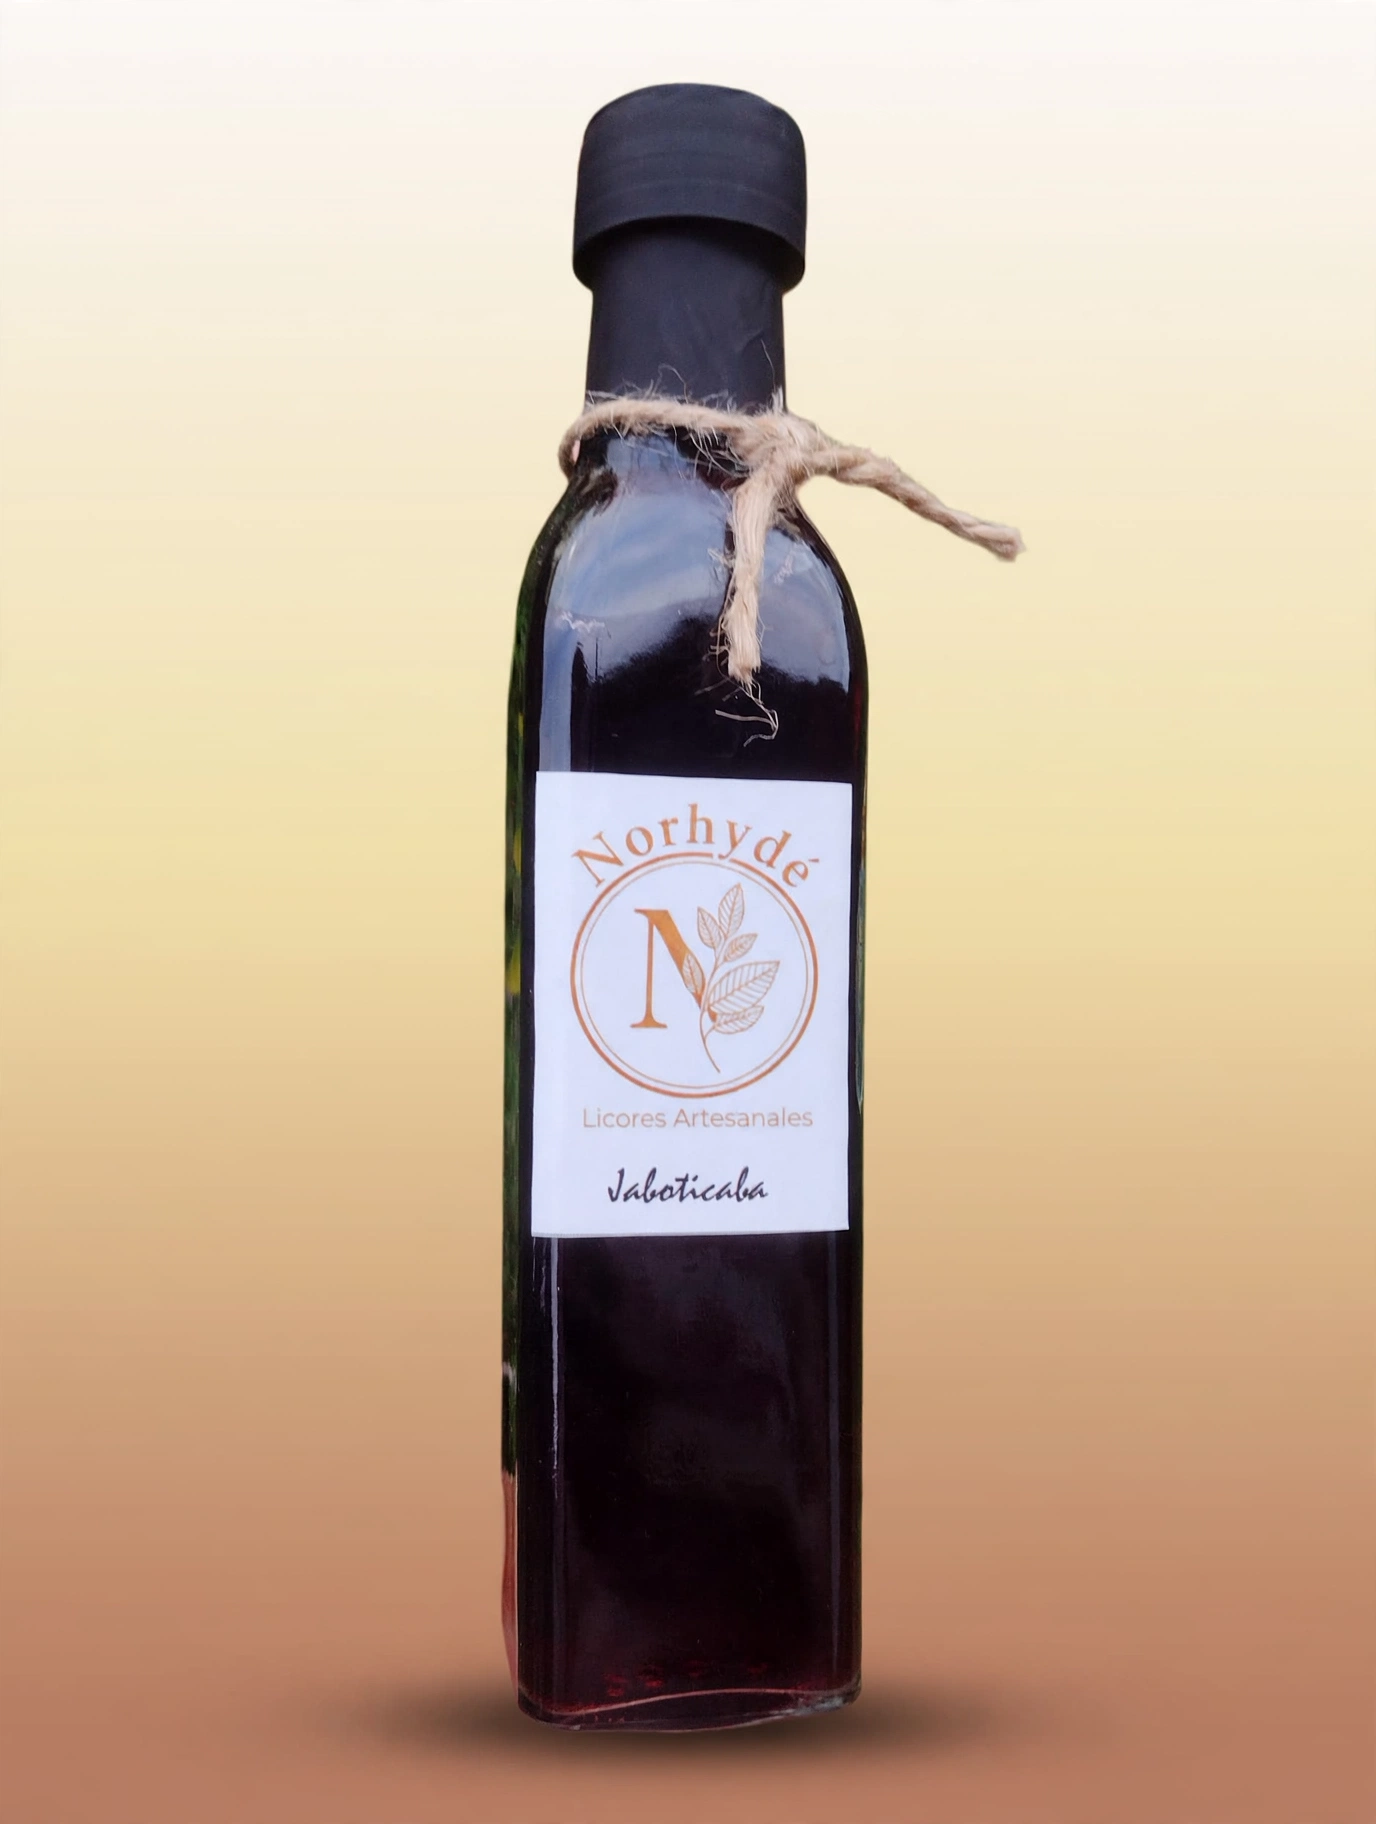
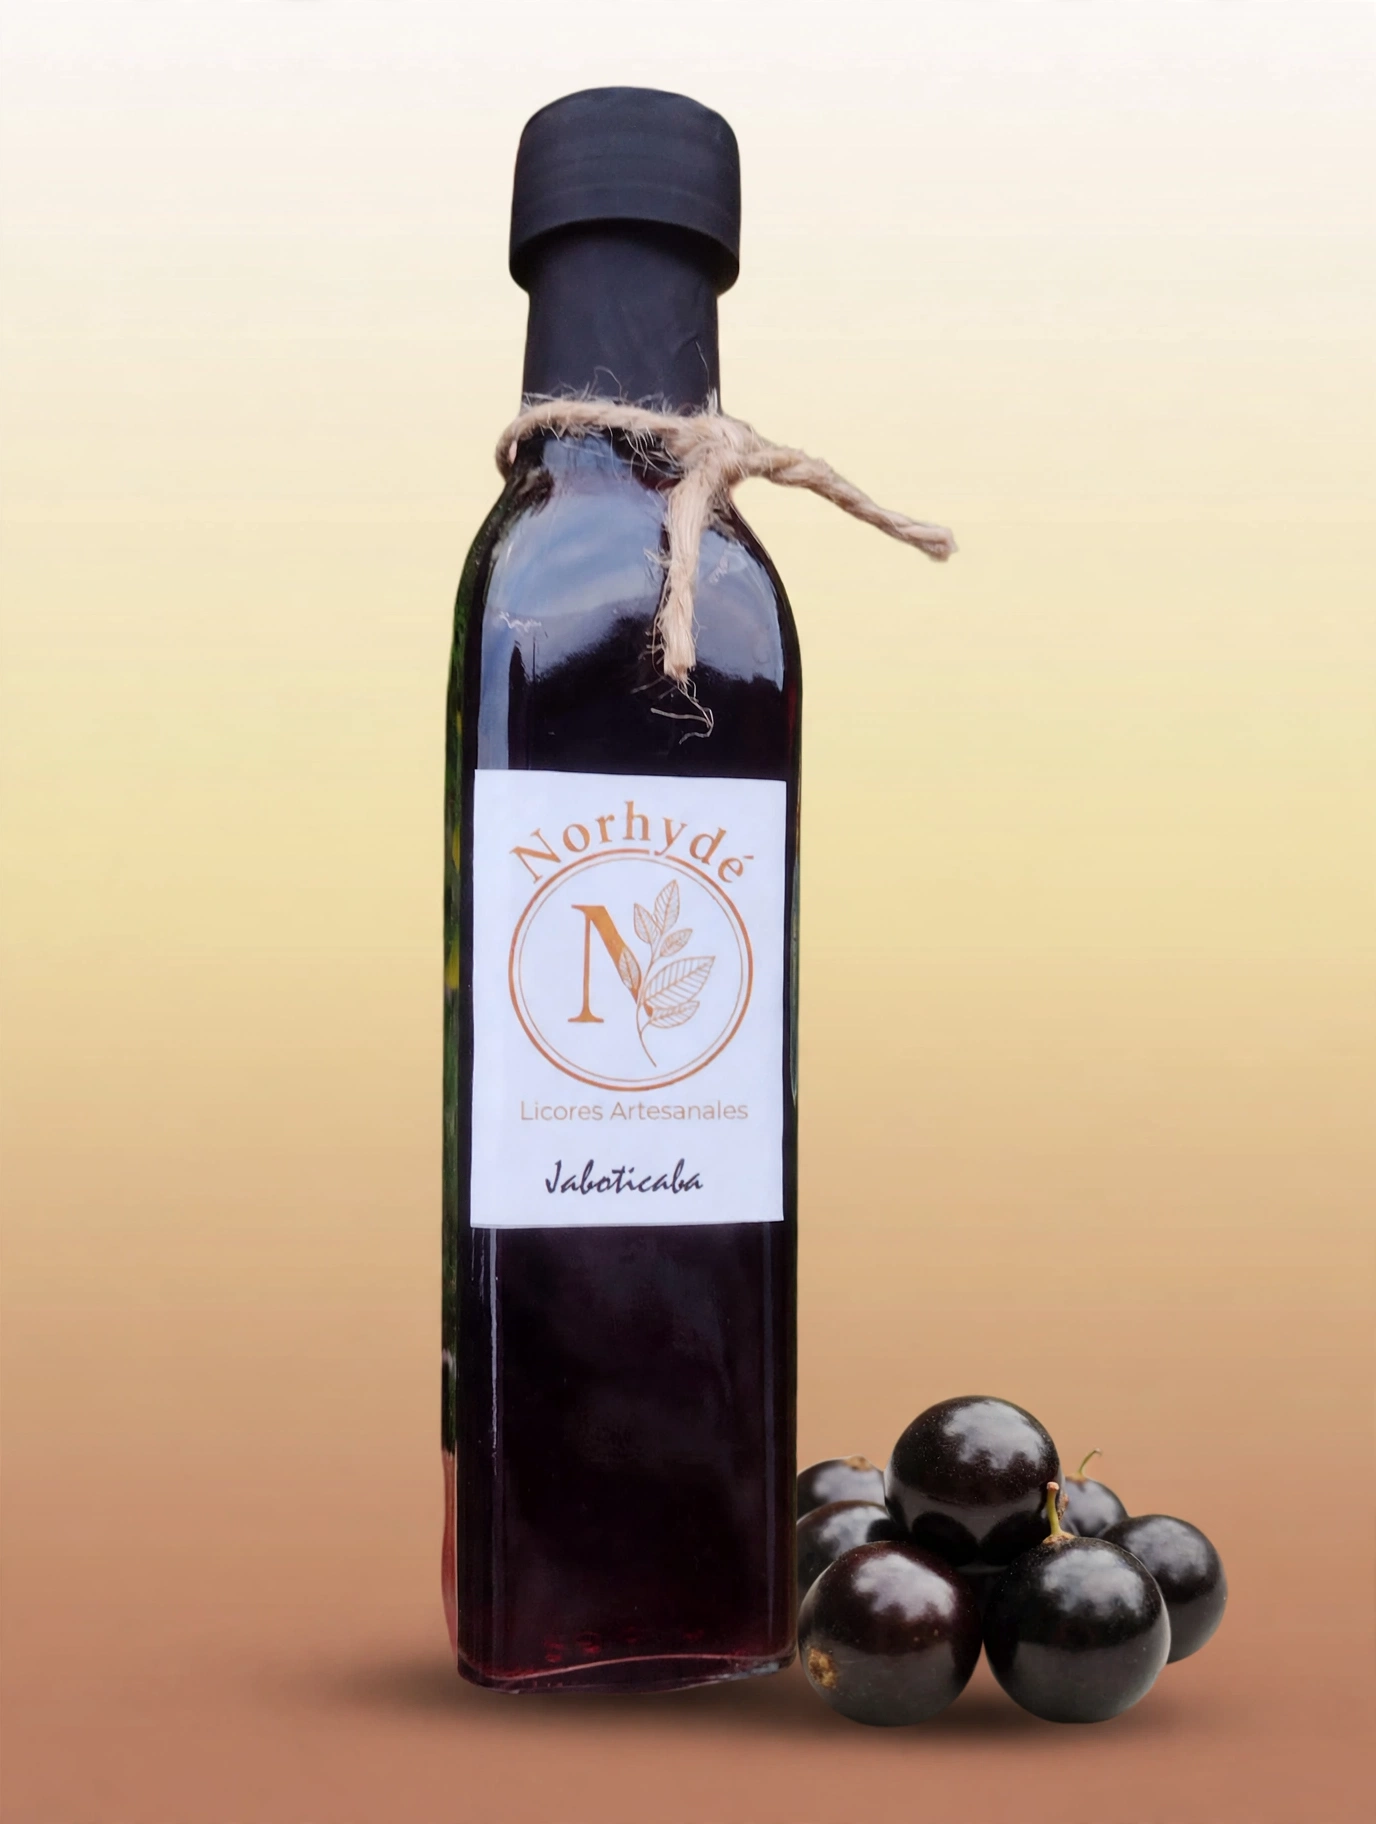
Actualizar fotos del catálogo y sumar Carambola

Changed region(s): [[0.25, 0.0312, 0.9062, 1.0]]

diff --git a/src/data/catalog.ts b/src/data/catalog.ts
@@ -95,7 +95,7 @@ export const PRODUCTS: Product[] = [
     servingSuggestion: 'Servir bien frío solo, con un cubo de hielo grande o en copas de sobremesa.',
     images: {
       botella: '/assets/botellas/jaboticaba.jpg',
-      botellita: null,
+      botellita: '/assets/botellitas/jaboticaba.jpg',
     },
     defaultFormat: 'botella',
   },
@@ -109,7 +109,7 @@ export const PRODUCTS: Product[] = [
     servingSuggestion: 'Ideal como aperitivo fresco con hielo y soda, o frío después de cenar.',
     images: {
       botella: '/assets/botellas/pitanga.jpg',
-      botellita: null,
+      botellita: '/assets/botellitas/pitanga.jpg',
     },
     defaultFormat: 'botella',
   },
@@ -170,16 +170,16 @@ export const PRODUCTS: Product[] = [
     defaultFormat: 'botella',
   },
   {
-    id: 'guabirova',
-    name: 'Guabirova',
+    id: 'guaviroba',
+    name: 'Guaviroba',
     lineId: 'frutos-del-monte',
     shortNote: 'Aroma cítrico-resinoso del monte, fresco y muy expresivo.',
     description:
-      'Elaborado con guabirova recolectada artesanalmente. Conserva el perfume característico de este fruto nativo, con un equilibrio vibrante entre dulzor y frescor.',
+      'Elaborado con guaviroba recolectada artesanalmente. Conserva el perfume característico de este fruto nativo, con un equilibrio vibrante entre dulzor y frescor.',
     servingSuggestion: 'Servir frío en copa de licor o con abundante hielo y piel de limón.',
     images: {
-      botella: '/assets/botellas/guabirova.jpg',
-      botellita: '/assets/botellitas/guabirova.jpg',
+      botella: '/assets/botellas/guaviroba.jpg',
+      botellita: '/assets/botellitas/guaviroba.jpg',
     },
     defaultFormat: 'botella',
   },
@@ -224,10 +224,10 @@ export const PRODUCTS: Product[] = [
       'Licor artesanal elaborado con bananas de productores locales. Textura amable y aroma cálido que evoca preparaciones caseras de sobremesa.',
     servingSuggestion: 'Delicioso frío, solo o acompañado de café espresso y postres de chocolate.',
     images: {
-      botella: null,
+      botella: '/assets/botellas/banana.jpg',
       botellita: '/assets/botellitas/banana.jpg',
     },
-    defaultFormat: 'botellita',
+    defaultFormat: 'botella',
   },
   {
     id: 'anana',
@@ -239,7 +239,7 @@ export const PRODUCTS: Product[] = [
     servingSuggestion: 'Servir bien frío con hielo o en tragos refrescantes de verano.',
     images: {
       botella: '/assets/botellas/anana.jpg',
-      botellita: null,
+      botellita: '/assets/botellitas/anana.jpg',
     },
     defaultFormat: 'botella',
   },
@@ -378,8 +378,22 @@ export const PRODUCTS: Product[] = [
       'Licor singular elaborado con fisalis (uchuva) de productores locales. Sorprende por su acidez viva y su bouquet frutal único.',
     servingSuggestion: 'Disfrutar bien frío como digestivo o en tragos de autor.',
     images: {
-      botella: null,
+      botella: '/assets/botellas/fisalis.jpg',
       botellita: null,
+    },
+    defaultFormat: 'botella',
+  },
+  {
+    id: 'carambola',
+    name: 'Carambola',
+    lineId: 'delicias-tropicales',
+    shortNote: 'Fruta estrella misionera, fresca, jugosa y suavemente agridulce.',
+    description:
+      'Elaborado con carambolas frescas cosechadas en la región. Ofrece un color ámbar cálido y notas frutales delicadas con un toque ácido muy refrescante.',
+    servingSuggestion: 'Servir bien frío solo, con hielo o como toque tropical en aperitivos con soda.',
+    images: {
+      botella: '/assets/botellas/carambola.jpg',
+      botellita: '/assets/botellitas/carambola.jpg',
     },
     defaultFormat: 'botella',
   },
@@ -396,10 +410,10 @@ export const PRODUCTS: Product[] = [
       'Elaborado con naranjas recién cosechadas de chacras misioneras. Combina aceites esenciales aromáticos de su piel con la dulzura natural de la fruta.',
     servingSuggestion: 'Servir bien frío solo, con hielo o como base para coctelería cítrica.',
     images: {
-      botella: null,
+      botella: '/assets/botellas/naranja.jpg',
       botellita: '/assets/botellitas/naranja.jpg',
     },
-    defaultFormat: 'botellita',
+    defaultFormat: 'botella',
   },
   {
     id: 'mandarina',
@@ -424,7 +438,7 @@ export const PRODUCTS: Product[] = [
       'Maceración de pomelo fresco que conserva su equilibrio entre frescor cítrico y el amargor elegante propio de la fruta.',
     servingSuggestion: 'Ideal como aperitivo con tónica, hielo y una rodaja de pomelo.',
     images: {
-      botella: null,
+      botella: '/assets/botellas/pomelo.jpg',
       botellita: null,
     },
     defaultFormat: 'botella',
@@ -572,7 +586,7 @@ export const PRODUCTS: Product[] = [
       'Elaborado en pequeños lotes cuidando la proporción justa de clavo de olor para obtener un licor cálido, expresivo y equilibrado.',
     servingSuggestion: 'Disfrutar en dosis pequeñas como digestivo o en tardes frescas.',
     images: {
-      botella: null,
+      botella: '/assets/botellas/clavodeolor.jpg',
       botellita: null,
     },
     defaultFormat: 'botella',
@@ -586,7 +600,7 @@ export const PRODUCTS: Product[] = [
       'Maceración de raíz de jengibre fresco que aporta vivacidad, calor amable en boca y un perfil estimulante.',
     servingSuggestion: 'Excelente bien frío con hielo y limón, o en cócteles con cerveza de jengibre.',
     images: {
-      botella: null,
+      botella: '/assets/botellas/jengibre.jpg',
       botellita: null,
     },
     defaultFormat: 'botella',

diff --git a/src/styles/global.css b/src/styles/global.css
@@ -283,8 +283,8 @@ h4 {
   width: 100%;
   height: 100%;
   object-fit: cover;
-  object-position: center 48%;
-  transform: scale(1.07);
+  object-position: center;
+  transform: scale(1);
   backface-visibility: hidden;
   transition: transform 0.45s cubic-bezier(0.22, 1, 0.36, 1);
 }
